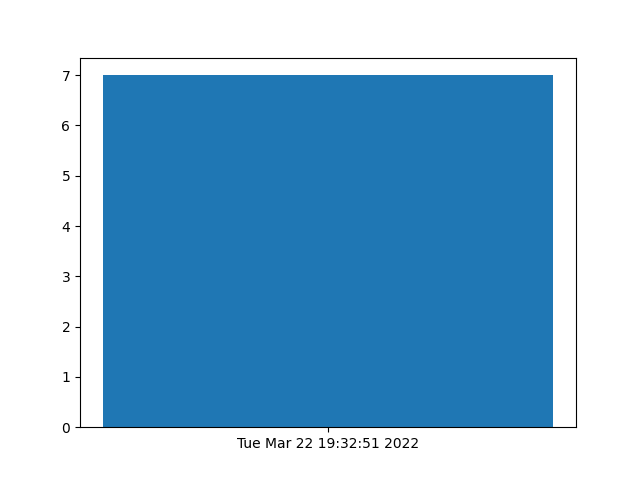
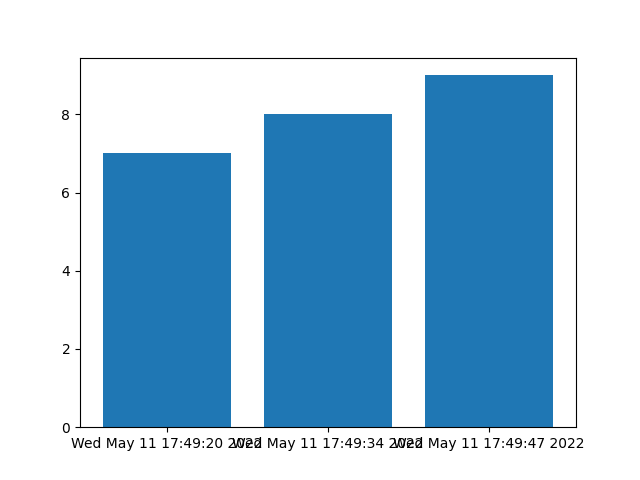
App functions working fully

diff --git a/templates/log_update.html b/templates/log_update.html
@@ -28,17 +28,31 @@
 </head>
 <body>
     <main class="form-signin">
+    {% set log_id = log["id"] %}
     {% set log_note = log["note"] %}
-    {% set log_value = log["value"] %}
+    {% set value = log["value"] %}
 	<h1>Add Log</h1>
-	<form action="/log/{{ log_id }}/update" method="POST" id="create-form">
+	<form action="/{{ user_id }}/{{ log_id }}/log_update" method="POST" id="create-form">
+    {% if log['type'] == "0" %}
 		<div>
 			<label>Value</label>
-            <input type="text" name="value" value="{{ log_value }}" required />
+            <input type="text" name="log_value" value="{{ value }}" required />
         </div>
 
         <div>
-        	<label>Notes</label>
+    {% else %}
+    <div>
+      <label>Value</label>
+            {% for value in values %}
+            <tr>
+              <input type="radio" name="log_value" value="{{ value }}" />
+                <label>{{ value }}</label>
+            </tr>
+            {% endfor %}
+    </div>
+    {% endif %}
+      <label>Notes</label>
+        <div>
             <input type="text" name="note" value="{{ log_note }}" required />
         </div>
         <div>

diff --git a/templates/logs.html b/templates/logs.html
@@ -43,8 +43,8 @@
         	<td>{{ log["value"] }}</td>
             <td>{{ log["note"] }}</td>
             <td>{{ log["time_stamp"]  }}</td>
-            <td><a href="/log/{{ log_id  }}/update" type="button">Update</a>
-            	<a href="/log/{{ log_id  }}/delete" type="button">Delete</a></td>
+            <td><a href="/{{ user_id }}/{{ log_id  }}/log_update" type="button">Update</a>
+            	<a href="/{{ user_id }}/{{ log_id  }}/log_delete" type="button">Delete</a></td>
         </tr>
         {% endfor %}
     </table>
@@ -56,12 +56,10 @@
         <img src='/static/images/plot.png' />
     </div>
     {% endif %}
-    {% set userid = logs[0]["user_id"] %}
-    {% set trackerid = logs[0]["tracker_id"] %}
     <div>
-        <a href="/tracker/{{ trackerid }}/log_create" type="button">+ Add Log</a>
+        <a href="/{{ user_id }}/{{ tracker_id }}/log_create" type="button">+ Add Log</a>
     </div>
-    <a href="/user/{{ userid }}/tracker" type="button">User Trackers</a>
+    <a href="/user/{{ user_id }}/tracker" type="button">User Trackers</a>
 </main>
 </body>
 </html>

diff --git a/templates/add_log.html b/templates/add_log.html
@@ -29,11 +29,23 @@
 <body>
 	<main class="form-signin">
 	<h1>Add Log</h1>
-	<form action="/tracker/{{ tracker_id }}/log_create" method="POST" id="create-form">
+	<form action="/{{ user_id }}/{{ tracker_id }}/log_create" method="POST" id="create-form">
+  {% if tracker["type"] == "0" %}
 		<div>
 			<label>Value</label>
-            <input type="text" name="value" required />
-        </div>
+            <input type="text" name="log_value" required />
+    </div>
+  {% else %}
+    <div>
+    <label>Value</label>
+          {% for value in values %}
+          <tr>
+            <input type="radio" name="log_value" value="{{ value }}" />
+              <label>{{ value }}</label>
+          </tr>
+          {% endfor %}
+    </div>
+  {% endif %}
 
         <div>
         	<label>Notes</label>
@@ -43,6 +55,7 @@
         	<input type="submit" value = "Submit">
         </div>
     </form>
+
 </main>
 </body>
 </html>

diff --git a/templates/tracker.html b/templates/tracker.html
@@ -37,7 +37,7 @@
         {% for tracker in trackers %}
         <tr>
             {% set tracker_id = tracker["id"] %}
-        	<td><a href="/tracker/{{ tracker_id }}/log">{{ tracker["name"] }}</a></td>
+        	<td><a href="/{{ user_id }}/{{ tracker_id }}/log">{{ tracker["name"] }}</a></td>
             <td>{{ tracker["description"] }}</td>
             <td><a href="/tracker/{{ tracker_id }}/update" type="button">Update</a>
             	<a href="/tracker/{{ tracker_id }}/delete" type="button">Delete</a></td>

diff --git a/main.py b/main.py
@@ -2,6 +2,8 @@ from flask import Flask, render_template, jsonify
 from flask import request, redirect, session
 import os
 import time
+
+from sqlalchemy import null
 from model import db, Tracker
 from plotify import logs_plot
 import requests
@@ -37,7 +39,7 @@ def add_user():
 
 @app.route("/user/<string:user_id>/tracker", methods=["GET", "POST"])
 def tracker_dashboard(user_id):
-    response = requests.get('http://127.0.0.1:5000/api/tracker/'+user_id)
+    response = requests.get('http://127.0.0.1:5000/api/tracker/'+user_id, params={'tracker_list':0})
     response = response.json()
     tracker = []
     for rep in response:
@@ -57,16 +59,15 @@ def tracker_add(user_id):
             t_type = '1'  # 1 for multiple choice type
             value = request.form['value']
         data = {'name':name,'description':description,'type':t_type,'values':value}
-        response = requests.post('http://127.0.0.1:5000/api/tracker'+user_id,data = data)
-        response = response.json()
+        response = requests.post('http://127.0.0.1:5000/api/tracker/'+user_id,params=data)
         return redirect("/user/"+user_id+"/tracker")
     return render_template('add_tracker.html', user_id=user_id)
 
 @app.route("/tracker/<string:tracker_id>/delete",methods=["GET","POST"])
 def tracker_delete(tracker_id):
-    response = requests.delete('http://127.0.0.1:5000/api/tracker'+tracker_id)
+    response = requests.delete('http://127.0.0.1:5000/api/tracker/'+tracker_id)
     response = response.json()
-    user_id = response['user_id']
+    user_id = str(response['user_id'])
     return redirect("/user/"+user_id+"/tracker")
 
 
@@ -76,57 +77,62 @@ def tracker_update(tracker_id):
         name = request.form["name"]
         description = request.form["description"]
         data = {'name':name,'description':description}
-        response = requests.put('http://127.0.0.1:5000/api/tracker'+tracker_id,data = data)
+        response = requests.put('http://127.0.0.1:5000/api/tracker/'+tracker_id,data = data)
         response = response.json()
-        user_id = response['user_id']
+        user_id = str(response['user_id'])
         return redirect("/user/"+user_id+"/tracker")
-    tracker = Tracker.query.filter_by(id=tracker_id).first()
-    return render_template('tracker_update.html', tracker=tracker, tracker_id=tracker_id)
+    response = requests.get('http://127.0.0.1:5000/api/tracker/'+tracker_id, params={'tracker_list':1})
+    response = response.json()
+    return render_template('tracker_update.html', tracker=response, tracker_id=tracker_id)
 
 
-@app.route("/tracker/<string:tracker_id>/log",methods=["GET", "POST"])
-def tracker_logs(tracker_id):
+@app.route("/<string:user_id>/<string:tracker_id>/log",methods=["GET", "POST"])
+def tracker_logs(user_id,tracker_id):
     response = requests.get('http://127.0.0.1:5000/api/logs/'+tracker_id,params = {'log_list':0})
     response = response.json()
     logs = []
     for rep in response:
         logs.append(rep)
-    return render_template("logs.html", logs=logs, n=len(logs))
+    return render_template("logs.html", logs=logs, n=len(logs),user_id = user_id,tracker_id = tracker_id)
 
 
-@app.route("/tracker/<string:tracker_id>/log_create", methods=["GET", "POST"])
-def add_log(tracker_id):
+@app.route("/<string:user_id>/<string:tracker_id>/log_create", methods=["GET","POST"])
+def add_log(user_id,tracker_id):
     if request.method == "POST":
         value = request.form['log_value']
         note = request.form['note']
-        data = {'note ':note,'value':value}
-        response = requests.post('http://127.0.0.1:5000/api/logs/'+tracker_id,data=data)
-        response = response.json()
-        return redirect("/tracker/"+tracker_id+"/log",logs = response)
+        data = {'note' : note, 'value' : value}
+        response = requests.post('http://127.0.0.1:5000/api/logs/'+tracker_id,params=data)
+        return redirect("/"+user_id+"/"+tracker_id+"/log")
     response = requests.get('http://127.0.0.1:5000/api/logs/'+tracker_id,params = {'log_list':1})
     response = response.json()
-    return render_template("add_log.html", tracker = response,tracker_id = tracker_id)
+    values = null
+    if response['type'] == "1":
+        value_types = str(response['value_types'])
+        values = value_types.upper()
+        values = values.split(',')
+    return render_template("add_log.html", tracker = response,user_id = user_id,tracker_id = tracker_id,values = values)
 
-@app.route("/log/<string:log_id>/delete",methods=["GET","POST"])
-def log_delete(log_id):
+@app.route("/<string:user_id>/<string:log_id>/log_delete",methods=["GET","POST"])
+def log_delete(user_id,log_id):
     response = requests.delete('http://127.0.0.1:5000/api/logs/'+log_id)
     response = response.json()
-    tracker_id = response['trackerid']
-    return redirect("/tracker/"+tracker_id+"/log")
+    tracker_id = str(response['trackerid'])
+    return redirect("/"+user_id+"/"+tracker_id+"/log")
 
-@app.route("/log/<string:log_id>/update", methods=["GET", "POST"])
-def log_update(log_id):
+@app.route("/<string:user_id>/<string:log_id>/log_update", methods=["GET", "POST"])
+def log_update(user_id,log_id):
     if request.method == "POST":
         note = request.form['note']
         value = request.form['log_value']
         data = {'note':note, 'value':value}
-        response = requests.put('http://127.0.0.1:5000/api/logs/'+tracker_id,data=data)
+        response = requests.put('http://127.0.0.1:5000/api/logs/'+log_id,data=data)
         response = response.json()
-        tracker_id = response['trackerid']
-        return redirect("/tracker/"+tracker_id+"/log")
+        tracker_id = str(response['trackerid'])
+        return redirect("/"+user_id+"/"+tracker_id+"/log")
     response = requests.get('http://127.0.0.1:5000/api/logs/'+log_id,params = {'log_list':2})
     response = response.json()
-    return render_template('log_update.html',log = response)
+    return render_template('log_update.html',log = response,user_id=user_id)
 
 
 if __name__ == '__main__':

diff --git a/rest_api.py b/rest_api.py
@@ -25,6 +25,10 @@ log_parser.add_argument('value')
 add_log_parser = reqparse.RequestParser()
 add_log_parser.add_argument('log_list')
 
+get_tracker_parser = reqparse.RequestParser()
+get_tracker_parser.add_argument('tracker_list')
+
+
 
 
 resource_fields = {
@@ -83,33 +87,39 @@ class UserAPI(Resource):
         return None, 200     
 
 class TrackerAPI(Resource):        
-    def get(self,userid):
-        trackers = Tracker.query.filter_by(user_id=userid).all()
-        return jsonify([Tracker.serialize(tracker) for tracker in trackers])
+    def get(self,id):
+        args = get_tracker_parser.parse_args()
+        retrn = args['tracker_list']
+        if retrn == "0":
+            trackers = Tracker.query.filter_by(user_id=id).all()
+            return jsonify([Tracker.serialize(tracker) for tracker in trackers])
+        else:
+            tracker = Tracker.query.filter_by(id=id).first()
+            return jsonify(Tracker.serialize(tracker))
 
-    def post(self,userid):
+    def post(self,id):
         args = tracker_parser.parse_args()
         name = args["name"]
         description = args["description"]
         type = args["type"]
         values = args["values"]
-        new_tracker = Tracker(name=name,value_types=values,type=type,description=description,user_id=userid)
+        new_tracker = Tracker(name=name,value_types=values,type=type,description=description,user_id=id)
         db.session.add(new_tracker)
         db.session.commit()
         return None, 200
 
-    def put(self,trackerid):
+    def put(self,id):
         args = tracker_parser.parse_args()
         name = args["name"]
         description = args["description"]
-        tracker = Tracker.query.filter_by(id=trackerid).first()
+        tracker = Tracker.query.filter_by(id=id).first()
         tracker.name = name
         tracker.description = description
         db.session.commit()
         return {'user_id':tracker.user_id}, 200
 
-    def delete(self,trackerid):
-        tracker = Tracker.query.filter_by(id=trackerid).first()
+    def delete(self,id):
+        tracker = Tracker.query.filter_by(id=id).first()
         user_id = tracker.user_id
         db.session.delete(tracker)
         db.session.commit()
@@ -143,7 +153,7 @@ class LogsAPI(Resource):
         new_log = Logs(tracker_id=id,user_id=tracker.user_id,value=value,time_stamp=time_stamp,note=note,type=tracker.type)
         db.session.add(new_log)
         db.session.commit()
-        return None, 200
+        return jsonify(Logs.serialize(new_log))
 
     def put(self,id):
         args = log_parser.parse_args()
@@ -168,5 +178,5 @@ class LogsAPI(Resource):
 
 
 api.add_resource(UserAPI, "/api/user")
-api.add_resource(TrackerAPI, "/api/tracker/<string:userid>","/api/tracker/<string:trackerid>")
+api.add_resource(TrackerAPI, "/api/tracker/<string:id>")
 api.add_resource(LogsAPI, "/api/logs/<string:id>")
